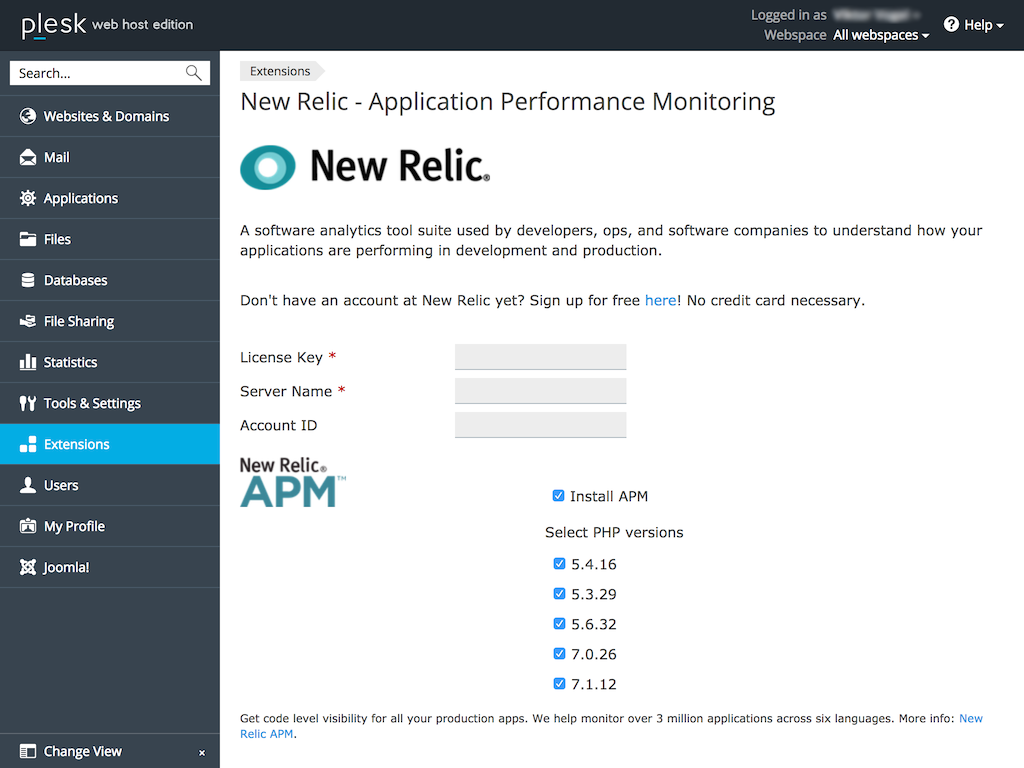
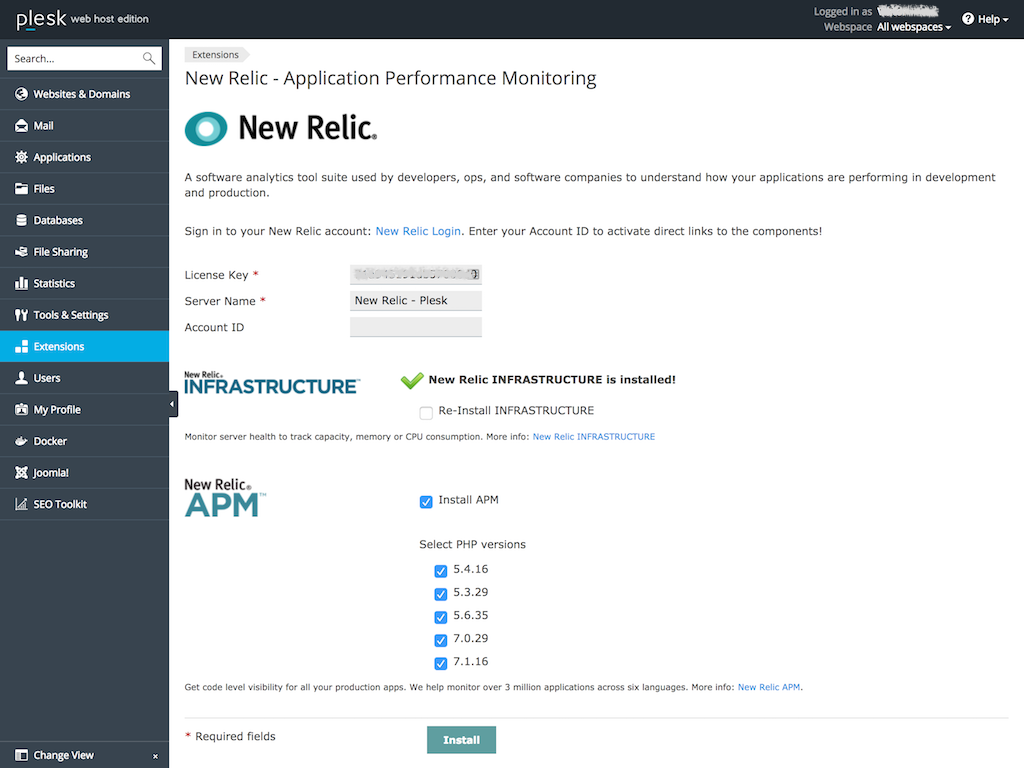
Added "INFRASTRUCTURE" service + increased version to 1.3.0

diff --git a/htdocs/global.css b/htdocs/global.css
@@ -1,6 +1,6 @@
 #newrelic {
     color: #474747;
-    font-family: Verdana,Geneva,sans-serif;
+    font-family: Verdana, Geneva, sans-serif;
     font-size: 14px;
     line-height: 1.42857;
 }
@@ -31,11 +31,12 @@
     margin-left: 5px;
 }
 
-#newrelic span.logo-product-servers {
+#newrelic span.logo-product-infrastructure {
     display: inline-block;
     float: left;
     margin-top: 40px;
     width: 330px;
+    min-height: 65px;
 }
 
 #newrelic span.logo-product-apm {
@@ -43,6 +44,7 @@
     float: left;
     margin-top: 15px;
     width: 330px;
+    min-height: 65px;
 }
 
 #newrelic span.logo-reboot_dummy {
@@ -78,7 +80,7 @@
     display: none;
 }
 
-#newrelic .product-installed-servers {
+#newrelic .product-installed-infrastructure {
     font-weight: bold;
     display: inline-block;
     margin-top: 25px;

diff --git a/plib/controllers/IndexController.php b/plib/controllers/IndexController.php
@@ -11,6 +11,8 @@ class IndexController extends pm_Controller_Action
 
         // Init title for all actions
         $this->view->pageTitle = $this->lmsg('page_title');
+
+        pm_ProductInfo::getOsName();
     }
 
     public function indexAction()
@@ -64,11 +66,12 @@ class IndexController extends pm_Controller_Action
                 ],
             ],
         ]);
+        $this->installationType('infrastructure', $form);
         $this->installationType('apm', $form);
         $form->addControlButtons([
-                                     'sendTitle'  => $this->lmsg('form_button_send'),
-                                     'cancelLink' => pm_Context::getModulesListUrl(),
-                                 ]);
+            'sendTitle'  => $this->lmsg('form_button_send'),
+            'cancelLink' => pm_Context::getModulesListUrl(),
+        ]);
 
         // Process the form - save the license key and run the installation scripts
         if ($this->getRequest()->isPost() && $form->isValid($this->getRequest()->getPost())) {
@@ -95,11 +98,11 @@ class IndexController extends pm_Controller_Action
     {
         $translated_string = $this->lmsg($language_string, $language_string_params);
 
-        if ($translated_string == '[['.$language_string.']]') {
+        if ($translated_string == '[[' . $language_string . ']]') {
             $translated_string = '';
         }
 
-        $span_element = '<span class="'.$class_name.'">'.$translated_string.'</span>';
+        $span_element = '<span class="' . $class_name . '">' . $translated_string . '</span>';
 
         return $span_element;
     }
@@ -117,9 +120,14 @@ class IndexController extends pm_Controller_Action
             $account_id = pm_Settings::get('account_id');
 
             if (!empty($account_id)) {
+                $infrastructure = pm_Settings::get('infrastructure');
                 $apm = pm_Settings::get('apm');
 
-                if (!empty($apm)) {
+                if (!empty($infrastructure) AND !empty($apm)) {
+                    $this->view->output_description_link = $this->addSpanTranslation('output_description_link_ser_apm', 'description-extension', ['accountid' => $account_id]);
+                } elseif (!empty($infrastructure)) {
+                    $this->view->output_description_link = $this->addSpanTranslation('output_description_link_infrastructure', 'description-extension', ['accountid' => $account_id]);
+                } elseif (!empty($apm)) {
                     $this->view->output_description_link = $this->addSpanTranslation('output_description_link_apm', 'description-extension', ['accountid' => $account_id]);
                 }
             }
@@ -129,12 +137,52 @@ class IndexController extends pm_Controller_Action
     /**
      * Adds elements to the pm_Form_Simple object depending on installation type
      *
-     * @param string         $type
-     * @param pm_Form_Simple $form
+     * @param $type
+     * @param $form
+     *
+     * @throws pm_Exception
      */
     private function installationType($type, &$form)
     {
         $installation_done = $this->checkInstallationState($type);
+
+        if ($type == 'infrastructure') {
+            $form->addElement('description', 'type_infrastructure_logo', [
+                'description' => $this->addSpanTranslation('form_type_infrastructure_logo', 'logo-product-infrastructure'),
+                'escape'      => false
+            ]);
+
+            if ($installation_done == false) {
+                $form->addElement('description', 'infrastructure_install', [
+                        'description' => $this->addSpanTranslation('form_type_infrastructure_install', 'product-installed-infrastructure'),
+                        'escape'      => false
+                    ]
+                );
+                $form->addElement('checkbox', 'infrastructure', [
+                    'label'   => $this->lmsg('form_type_infrastructure'),
+                    'value'   => pm_Settings::get('infrastructure'),
+                    'checked' => true
+                ]);
+            } else {
+                $form->addElement('description', 'infrastructure_installed', [
+                    'description' => $this->addSpanTranslation('form_type_infrastructure_installed', 'product-installed-infrastructure'),
+                    'escape'      => false
+                ]);
+                $form->addElement('checkbox', 'infrastructure', [
+                        'label'   => $this->lmsg('form_type_infrastructure_reinstall'),
+                        'value'   => '',
+                        'checked' => false
+                    ]
+                );
+            }
+
+            $form->addElement('description', 'type_infrastructure_description', [
+                'description' => $this->addSpanTranslation('form_type_infrastructure_description', 'description-product'),
+                'escape'      => false
+            ]);
+
+            return;
+        }
 
         if ($type == 'apm') {
             $form->addElement('description', 'type_apm_logo', [
@@ -172,9 +220,9 @@ class IndexController extends pm_Controller_Action
                     'escape'      => false
                 ]);
                 foreach ($php_versions as $php_version => $php_bin_path) {
-                    if ($this->checkInstallationState('php_versions_'.str_replace('.', '', $php_version))) {
-                        $form->addElement('checkbox', 'php_versions_'.$php_version, [
-                            'label'   => $php_version.' ['.$this->lmsg('form_type_apm_php_activated').']',
+                    if ($this->checkInstallationState('php_versions_' . str_replace('.', '', $php_version))) {
+                        $form->addElement('checkbox', 'php_versions_' . $php_version, [
+                            'label'   => $php_version . ' [' . $this->lmsg('form_type_apm_php_activated') . ']',
                             'value'   => '',
                             'checked' => false
                         ]);
@@ -182,7 +230,7 @@ class IndexController extends pm_Controller_Action
                         continue;
                     }
 
-                    $form->addElement('checkbox', 'php_versions_'.$php_version, [
+                    $form->addElement('checkbox', 'php_versions_' . $php_version, [
                         'label'   => $php_version,
                         'value'   => '',
                         'checked' => true
@@ -213,6 +261,7 @@ class IndexController extends pm_Controller_Action
      * Gets all installed Plesk PHP versions with the help of shell script
      *
      * @return array
+     * @throws pm_Exception
      */
     private function getPleskPhpVersions()
     {
@@ -239,6 +288,12 @@ class IndexController extends pm_Controller_Action
      * Processes POST request - after form submission
      *
      * @param $form
+     *
+     * @throws Zend_Controller_Action_Exception
+     * @throws Zend_Db_Table_Exception
+     * @throws Zend_Db_Table_Row_Exception
+     * @throws pm_Exception
+     * @throws pm_Exception_InvalidArgumentException
      */
     private function processPostRequest($form)
     {
@@ -260,6 +315,13 @@ class IndexController extends pm_Controller_Action
             pm_Settings::set('account_id', $account_id);
 
             $this->_status->addMessage('info', $this->lmsg('message_success'));
+
+            if ($form->getValue('infrastructure')) {
+                if ($this->runInstallation('infrastructure', $license_key, $server_name)) {
+                    pm_Settings::set('infrastructure', $form->getValue('infrastructure'));
+                    $this->_status->addMessage('info', $this->lmsg('message_success_infrastructure'));
+                }
+            }
 
             if ($form->getValue('apm')) {
                 $php_versions = $this->getSelectedPleskPhpVersion();
@@ -321,7 +383,7 @@ class IndexController extends pm_Controller_Action
         $options[] = addslashes($server_name);
         $options[] = $php_versions;
 
-        $result = pm_ApiCli::callSbin($type.'.sh', $options, pm_ApiCli::RESULT_FULL);
+        $result = pm_ApiCli::callSbin($type . '.sh', $options, pm_ApiCli::RESULT_FULL);
 
         if ($result['code']) {
             throw new pm_Exception("{$result['stdout']}\n{$result['stderr']}");
@@ -336,6 +398,10 @@ class IndexController extends pm_Controller_Action
      * @param bool $installation
      *
      * @return string
+     * @throws Zend_Db_Table_Exception
+     * @throws Zend_Db_Table_Row_Exception
+     * @throws pm_Exception
+     * @throws pm_Exception_InvalidArgumentException
      */
     private function getSelectedPleskPhpVersion($installation = true)
     {
@@ -344,10 +410,10 @@ class IndexController extends pm_Controller_Action
         $php_versions_installed = $this->getPleskPhpVersions();
 
         foreach ($php_versions_installed as $php_version_installed => $php_bin_path_installed) {
-            if ($this->getRequest()->get('php_versions_'.str_replace('.', '', $php_version_installed))) {
+            if ($this->getRequest()->get('php_versions_' . str_replace('.', '', $php_version_installed))) {
                 $php_versions_selected_array[] = $php_bin_path_installed;
                 if (!empty($installation)) {
-                    pm_Settings::set('php_versions_'.str_replace('.', '', $php_version_installed), true);
+                    pm_Settings::set('php_versions_' . str_replace('.', '', $php_version_installed), true);
                 }
             }
         }
@@ -363,6 +429,8 @@ class IndexController extends pm_Controller_Action
      * Writes installed PHP versions into a file that is used in the uninstallation process
      *
      * @param $php_versions
+     *
+     * @throws pm_Exception
      */
     private function saveInstalledPhpVersions($php_versions)
     {
@@ -370,7 +438,7 @@ class IndexController extends pm_Controller_Action
         $php_versions_selected = explode(':', $php_versions);
 
         foreach ($php_versions_installed as $php_version => $php_path) {
-            if ($this->checkInstallationState('php_versions_'.str_replace('.', '', $php_version))) {
+            if ($this->checkInstallationState('php_versions_' . str_replace('.', '', $php_version))) {
                 if (!in_array($php_path, $php_versions_selected)) {
                     $php_versions_selected[] = $php_path;
                 }

diff --git a/plib/resources/locales/en-US.php b/plib/resources/locales/en-US.php
@@ -2,25 +2,32 @@
 // Copyright 1999-2018. Plesk International GmbH.
 
 $messages = [
-    'form_account_id'               => 'Account ID',
-    'form_button_send'              => 'Install',
-    'form_license_key'              => 'License Key',
-    'form_server_name'              => 'Server Name',
-    'form_type_apm'                 => 'Install APM',
-    'form_type_apm_description'     => 'Get code level visibility for all your production apps. We help monitor over 3 million applications across six languages. More info: <a href="https://newrelic.com/application-monitoring" target="_blank">New Relic APM</a>.',
-    'form_type_apm_installed'       => '<img src="check.png" alt="New Relic APM is installed" /> New Relic APM is installed!',
-    'form_type_apm_logo'            => '<img src="new-relic-apm.png" alt="New Relic - APM" />',
-    'form_type_apm_php_activated'   => 'activated',
-    'form_type_apm_php_versions'    => 'Select PHP versions',
-    'form_type_apm_reinstall'       => 'Re-Install APM',
-    'message_error_key'             => 'License Key must be 40 characters exactly!',
-    'message_success'               => 'Data was successfully saved!',
-    'message_success_apm'           => 'APM was successfully installed!',
-    'message_warning_php_version'   => 'Please select at least one PHP version!',
-    'message_warning_select_apm'    => 'Please also select the APM installation field to activate the service for another PHP version!',
-    'output_description'            => 'A software analytics tool suite used by developers, ops, and software companies to understand how your applications are performing in development and production.',
-    'output_description_link_apm'   => 'Open the <a href="https://rpm.newrelic.com/accounts/%%accountid%%/applications" target="_blank">APM</a> dashboard.',
-    'output_description_link_login' => 'Sign in to your New Relic account: <a href="https://login.newrelic.com/login" target="_blank">New Relic Login</a>. Enter your Account ID to activate direct links to the components!',
-    'output_description_signup'     => 'Don\'t have an account at New Relic yet? Sign up for free <a href="https://newrelic.com/" target="_blank">here</a>! No credit card necessary.',
-    'page_title'                    => 'New Relic - Application Performance Monitoring',
+    'form_account_id'                        => 'Account ID',
+    'form_button_send'                       => 'Install',
+    'form_license_key'                       => 'License Key',
+    'form_server_name'                       => 'Server Name',
+    'form_type_apm'                          => 'Install APM',
+    'form_type_apm_description'              => 'Get code level visibility for all your production apps. We help monitor over 3 million applications across six languages. More info: <a href="https://newrelic.com/application-monitoring" target="_blank">New Relic APM</a>.',
+    'form_type_apm_installed'                => '<img src="check.png" alt="New Relic APM is installed" /> New Relic APM is installed!',
+    'form_type_apm_logo'                     => '<img src="new-relic-apm.png" alt="New Relic - APM" />',
+    'form_type_apm_php_activated'            => 'activated',
+    'form_type_apm_php_versions'             => 'Select PHP versions',
+    'form_type_apm_reinstall'                => 'Re-Install APM',
+    'form_type_infrastructure'               => 'Install INFRASTRUCTURE',
+    'form_type_infrastructure_description'   => 'Monitor server health to track capacity, memory or CPU consumption. More info: <a href="https://newrelic.com/products/infrastructure" target="_blank">New Relic INFRASTRUCTURE</a>',
+    'form_type_infrastructure_installed'     => '<img src="check.png" alt="New Relic INFRASTRUCTURE is installed" /> New Relic INFRASTRUCTURE is installed!',
+    'form_type_infrastructure_logo'          => '<img src="new-relic-infrastructure.png" alt="New Relic - INFRASTRUCTURE" />',
+    'form_type_infrastructure_reinstall'     => 'Re-Install INFRASTRUCTURE',
+    'message_error_key'                      => 'License Key must be 40 characters exactly!',
+    'message_success'                        => 'Data was successfully saved!',
+    'message_success_apm'                    => 'APM was successfully installed!',
+    'message_success_infrastructure'         => 'INFRASTRUCTURE was successfully installed!',
+    'message_warning_php_version'            => 'Please select at least one PHP version!',
+    'message_warning_select_apm'             => 'Please also select the APM installation field to activate the service for another PHP version!',
+    'output_description'                     => 'A software analytics tool suite used by developers, ops, and software companies to understand how your applications are performing in development and production.',
+    'output_description_link_apm'            => 'Open the <a href="https://rpm.newrelic.com/accounts/%%accountid%%/applications" target="_blank">APM</a> dashboard.',
+    'output_description_link_infrastructure' => 'Open the <a href="https://infrastructure.newrelic.com/accounts/%%accountid%%/hosts" target="_blank">INFRASTRUCTURE</a> dashboard.',
+    'output_description_link_login'          => 'Sign in to your New Relic account: <a href="https://login.newrelic.com/login" target="_blank">New Relic Login</a>. Enter your Account ID to activate direct links to the components!',
+    'output_description_signup'              => 'Don\'t have an account at New Relic yet? Sign up for free <a href="https://newrelic.com/" target="_blank">here</a>! No credit card necessary.',
+    'page_title'                             => 'New Relic - Application Performance Monitoring',
 ];

diff --git a/DESCRIPTION.md b/DESCRIPTION.md
@@ -3,8 +3,9 @@ New Relic is a software analytics tool suite used by developers, ops, and softwa
 
 With New Relic, you gain access to analytics tools to measure and monitor performance bottlenecks, throughput, network graph, server health and many more – all almost in real-time.
 
-The New Relic Plesk extension seamlessly integrates with your Plesk server, and supports one of the most important tools by New Relic:
+The New Relic Plesk extension seamlessly integrates with your Plesk server, and supports two of the most important tools by New Relic:
 
 - APM for Application Performance Monitoring and Management
+- INFRASTRUCTURE for Server Monitoring
 
 Supported operation systems: Ubuntu, Debian, CentOs and Red Hat

diff --git a/README.md b/README.md
@@ -4,6 +4,6 @@ This extension adds the support of the application performance monitoring tool *
 
 A software analytics tool suite used by developers, ops, and software companies to understand how your applications are performing in development and production.
 
-Supported services: APM
+Supported services: APM, INFRASTRUCTURE
 
 Supported operation systems: Ubuntu, Debian, CentOs and Red Hat

diff --git a/CHANGES.md b/CHANGES.md
@@ -1,3 +1,9 @@
+# 1.3.0
+
+* [+] Added "INFRASTRUCTURE" service
+* [*] Assigned "monitoring" category
+* [*] Updated screenshots
+
 # 1.2.0
 
 * [*] Removed "SERVERS" tools due to EOL
